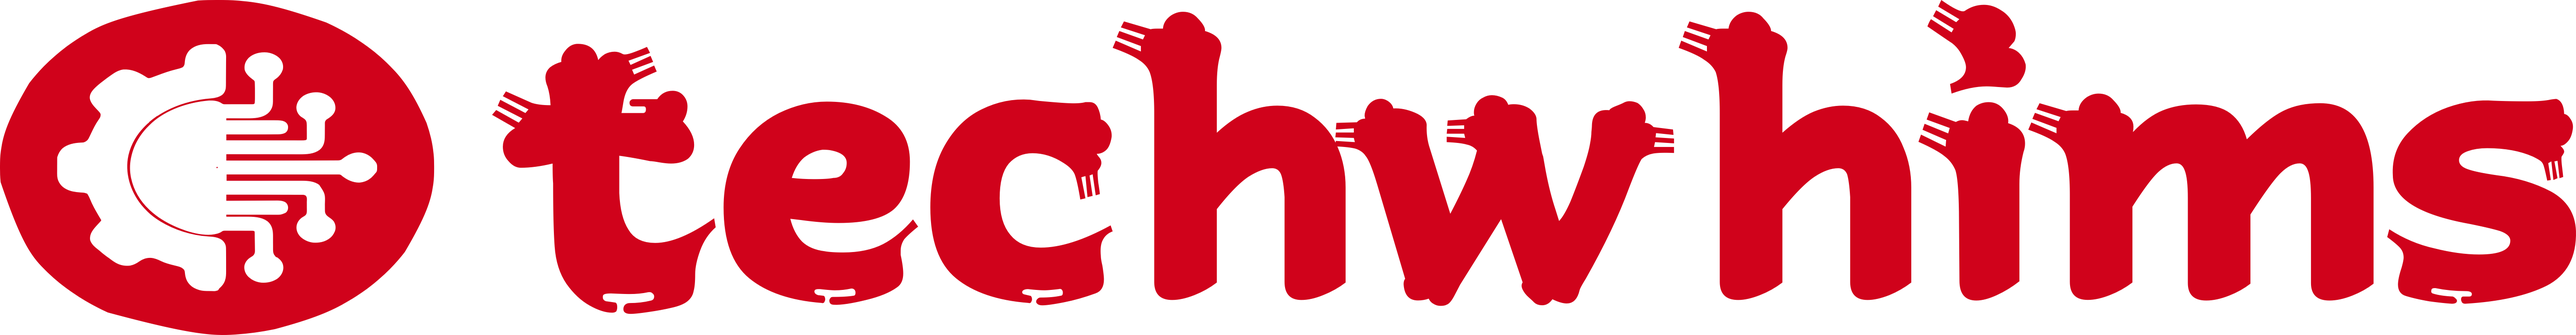
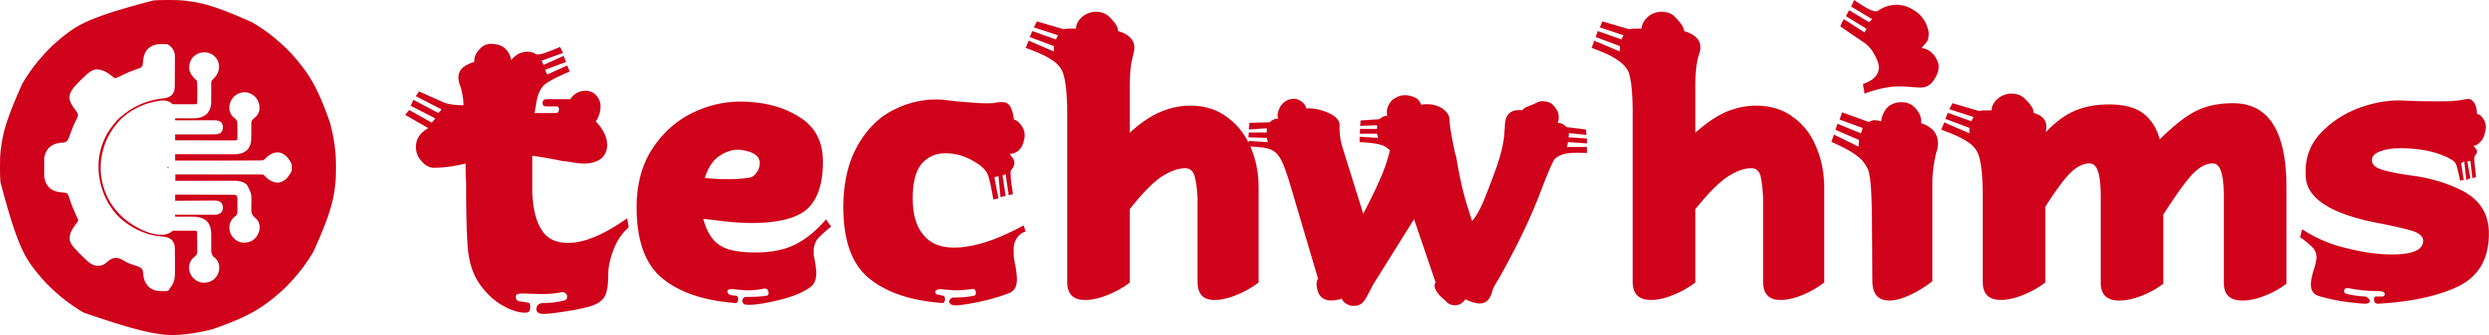
updating site on Thu Apr  6 10:48:03 CST 2023

Changed region(s): [[0.0, 0.0, 0.9686, 1.0], [0.9998, 0.6501, 1.0, 0.7429], [0.9686, 0.4953, 0.9998, 0.5262]]

diff --git a/themes/hugo-ht/static/css/style.css b/themes/hugo-ht/static/css/style.css
@@ -126,7 +126,7 @@ div.splitbox div.right {
 
 .nav-logo {
   float: left;
-  margin-top: -11px;
+ /* margin-top: -11px;*/
   transition: transform 150ms ease-out;
 }
 
@@ -136,7 +136,7 @@ div.splitbox div.right {
 
 .nav-logo img {
   display: block;
-  max-height: 40px;
+  max-height: 20px;
   width: auto;
   /*border-radius: 50%;*/
 }
